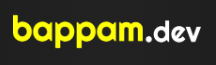
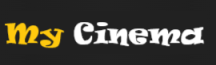
Renamed cinema.html to index.html for GitHub Pages

Changed region(s): [[0.0, 0.2154, 0.9444, 0.7692]]

diff --git a/index.html b/index.html
@@ -18,8 +18,8 @@
 		</header>
 		<article class="artcl">
 			<div><span>m </span>for... My cinema</div>
-			<div>Watch Telugu movies in HD, exclusively available on BAPPAM.DEV<br>
-             Designed and Developed for bappam batch</div>
+			<div>Watch movies in HD, exclusively available on My Cinema<br>
+             Designed and Developed for You</div>
 		</article>
 		<main class="gb">
 			<section class="gi">
@@ -269,7 +269,7 @@
 		</section>
 		<footer class="foot">
 			<div>Contact |DMCA |T&C</div>
-			<div>© 2025 BAPPAM</div>
+			<div>© 2025 My cinema</div>
 		</footer>
 	</body>
 </html>
